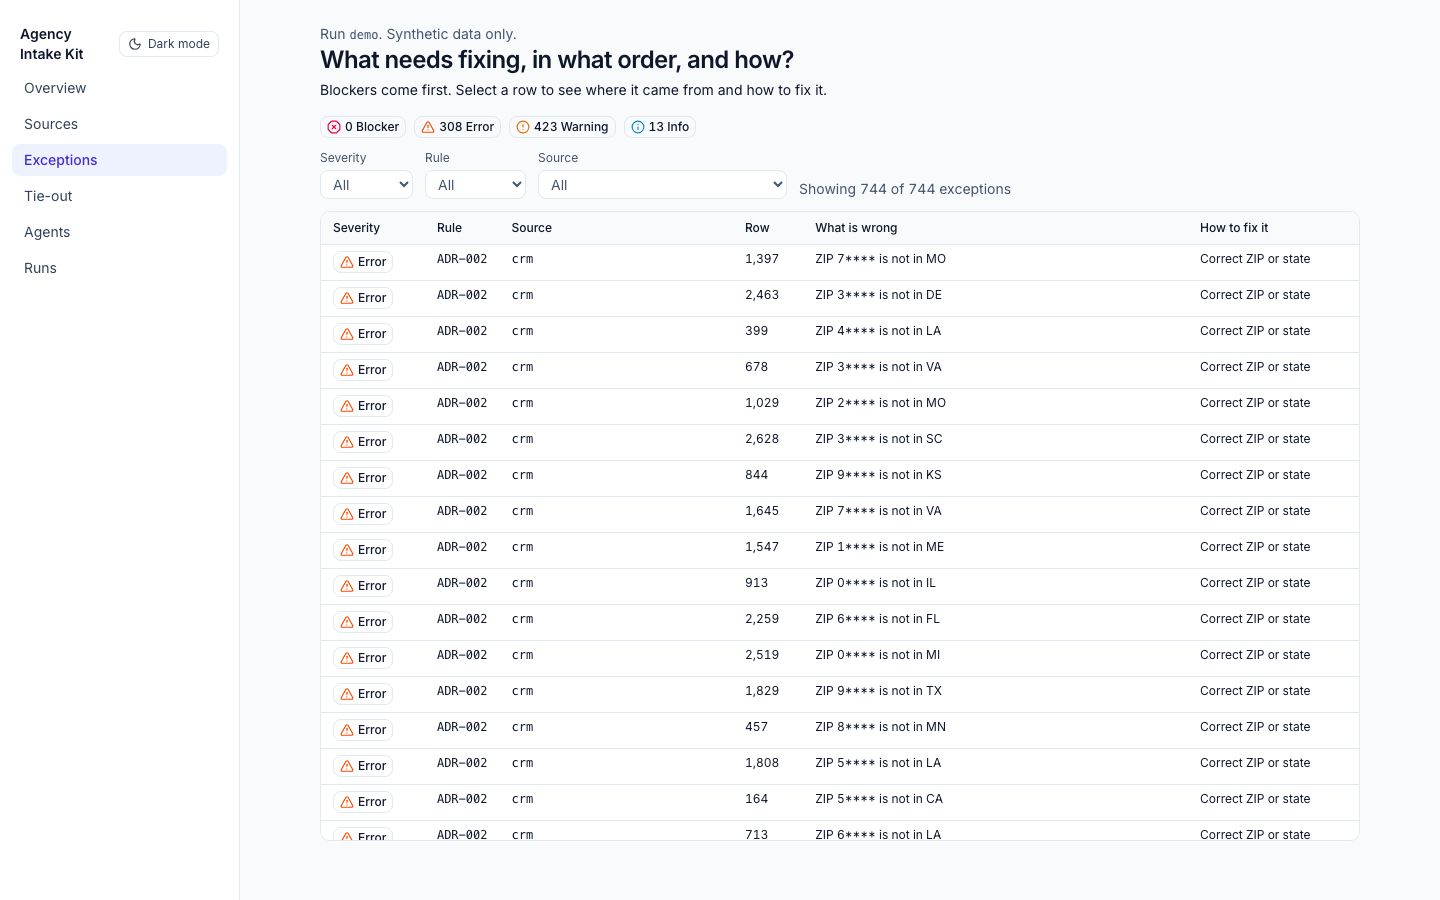
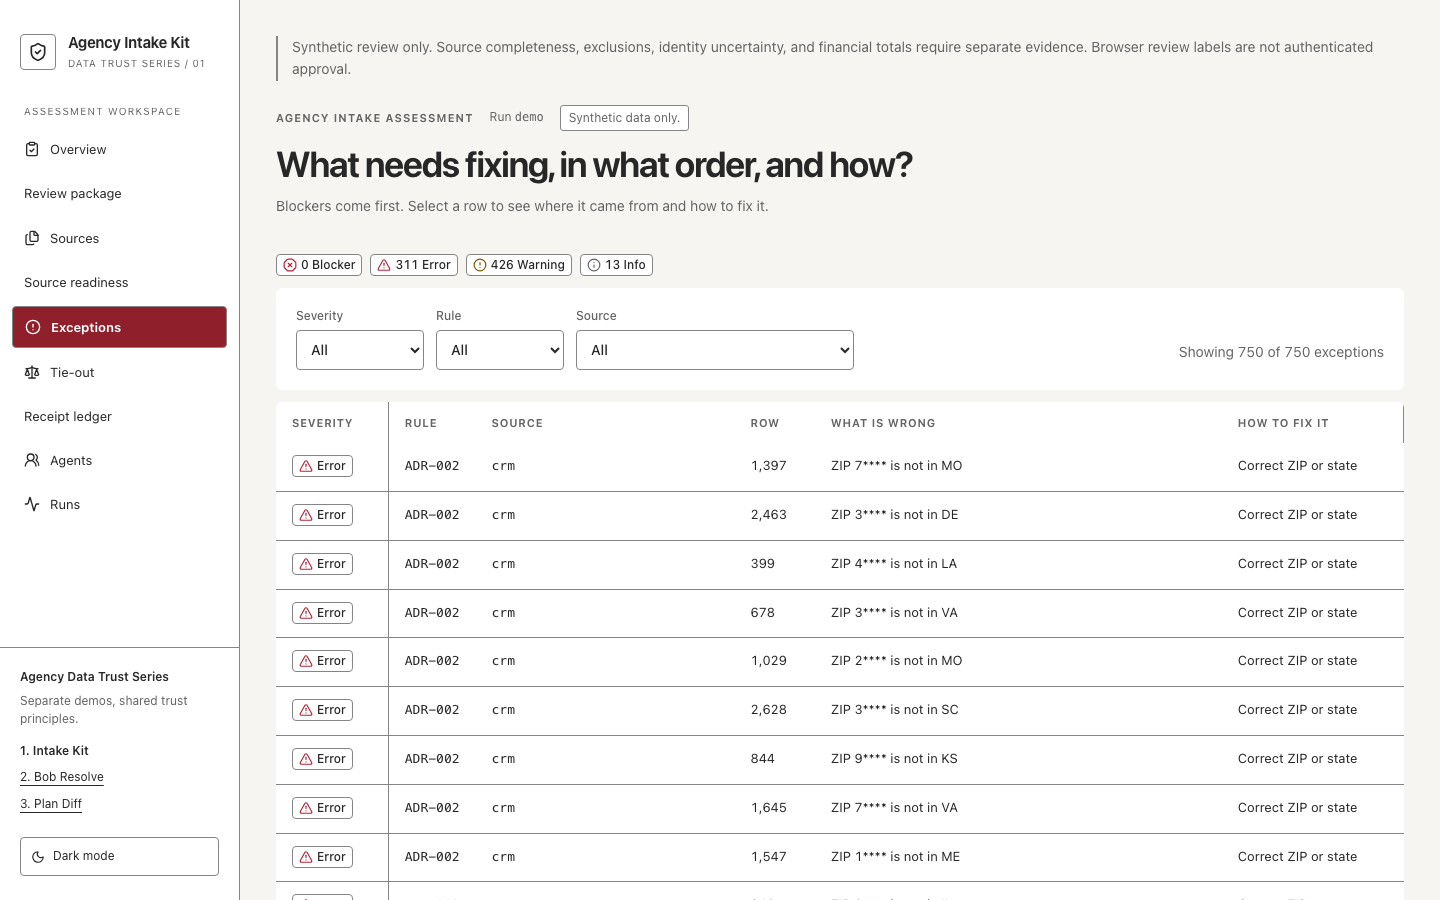
Refresh README screenshots and demo GIF
Regenerated from the current design with npm run shots and demo-gif. The
Overview screenshot check now covers the readiness answer and tiles in the
first screen rather than the whole page, which outgrew one screen.

diff --git a/dashboard/e2e/shots.spec.ts b/dashboard/e2e/shots.spec.ts
@@ -37,9 +37,12 @@ for (const { name, path, question } of PAGES) {
     await open(page, path, question);
     await expectNoSidewaysScroll(page);
     if (name === "overview") {
-      // The answer and every tile fit on one screen at desktop width.
-      const height = await page.evaluate(() => document.documentElement.scrollHeight);
-      expect(height).toBeLessThanOrEqual(DESKTOP.height);
+      // The answer and every tile fit on one screen at desktop width. The answer sits above
+      // the tiles, so the lowest tile edge bounds both. Evidence tables below may scroll.
+      const tiles = page.locator(".metric-tile");
+      expect(await tiles.count()).toBeGreaterThanOrEqual(5);
+      const bottoms = await tiles.evaluateAll((els) => els.map((el) => el.getBoundingClientRect().bottom));
+      expect(Math.max(...bottoms)).toBeLessThanOrEqual(DESKTOP.height);
     }
     await page.screenshot({ path: `${OUT}/${name}-1440.png`, animations: "disabled" });
   });

diff --git a/CHANGELOG.md b/CHANGELOG.md
@@ -1,5 +1,10 @@
 # Changelog
 
+## README screenshots refresh, 2026-10-07
+
+- Regenerate the README screenshots, the dark Overview screenshot and the demo GIF from the current design with `npm run shots` and `npm run demo-gif`. No dashboard, engine or data change.
+- The Overview screenshot check now asserts the readiness answer and every tile fit in the first 900px screen, instead of the whole page. The page grew past one screen when evidence sections were added, which blocked the refresh.
+
 ## Shared visual simplification, 2026-10-07
 
 - Use the shared warm offwhite page, white panels, charcoal text, dark-red primary action and neutral dark mode. Flatten card framing and decorative trim; preserve navigation geometry, routes, review gates and all evidence.
